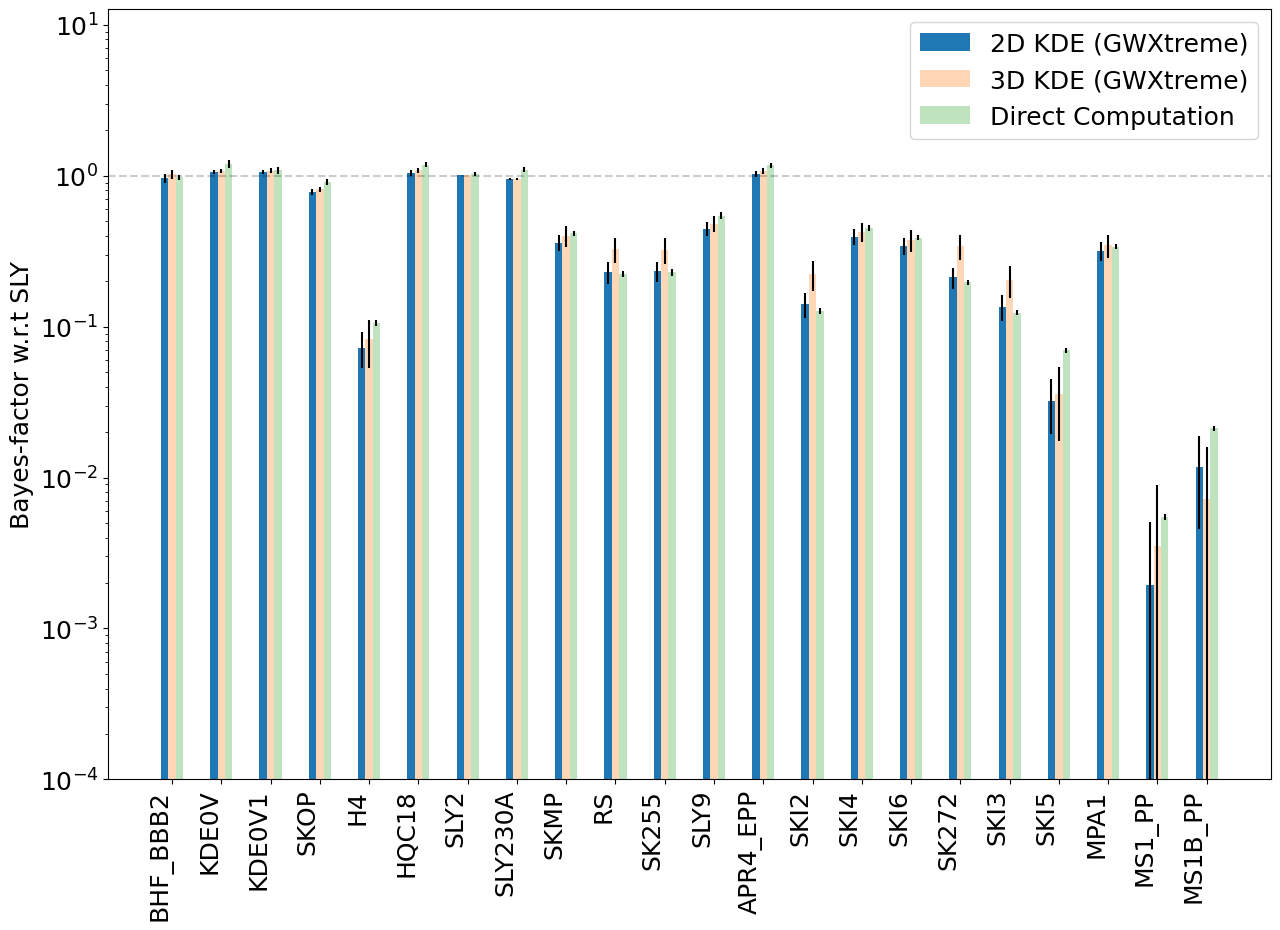
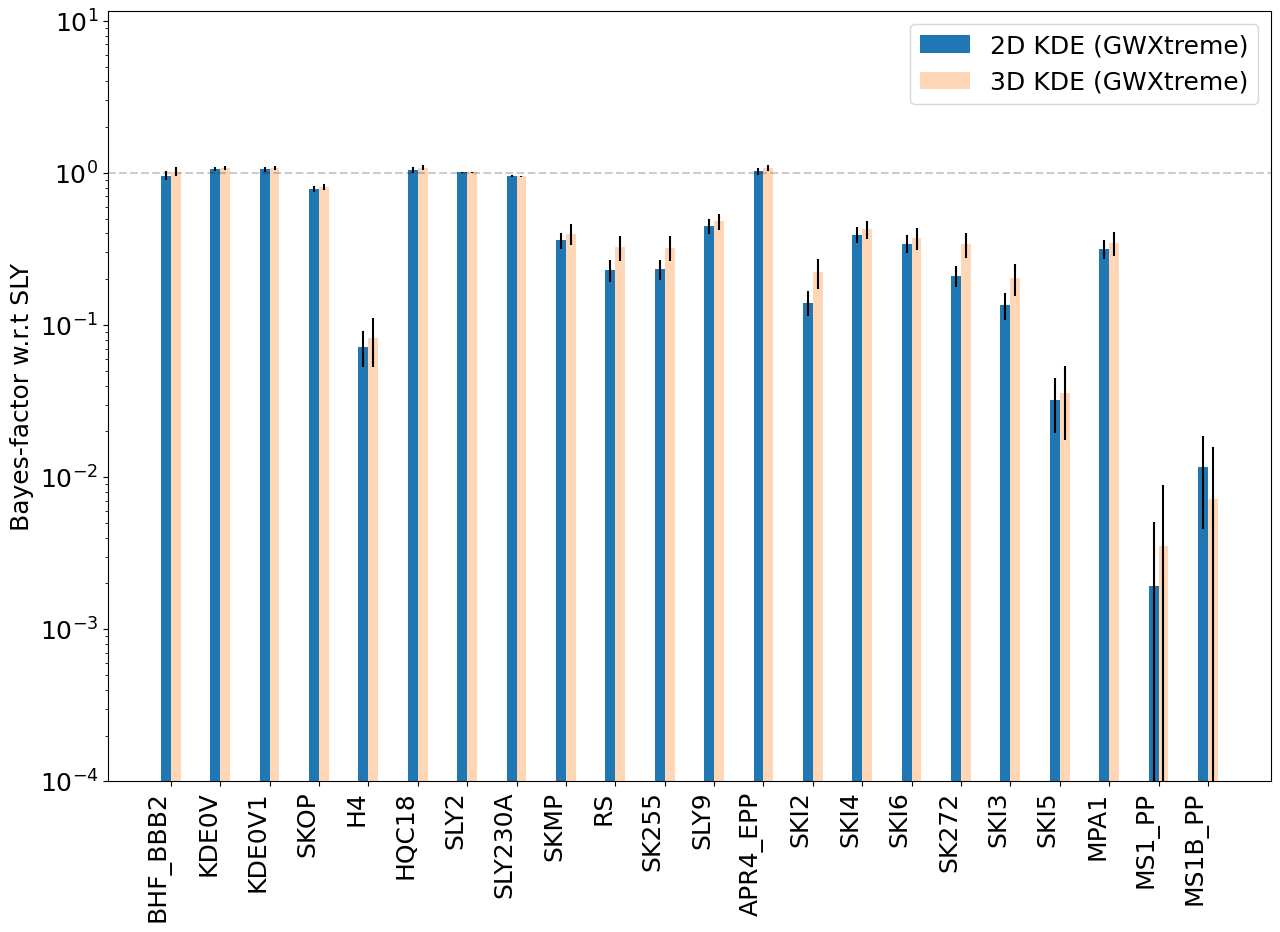
Removed LALSuite result from plot as it loked cluttery.

diff --git a/year3/PhenomTaylorCompare/GW170817BFs_GWXtreme2024Paper.py b/year3/PhenomTaylorCompare/GW170817BFs_GWXtreme2024Paper.py
@@ -52,11 +52,13 @@ def singleEventPlots():
         data = json.load(f)
 
 
-    labels = ["2D KDE (GWXtreme)", "3D KDE (GWXtreme)", "Direct Computation"]
+#    labels = ["2D KDE (GWXtreme)", "3D KDE (GWXtreme)", "Direct Computation"]
+    labels = ["2D KDE (GWXtreme)", "3D KDE (GWXtreme)"]
     eosList = ["BHF_BBB2","KDE0V","KDE0V1","SKOP","H4","HQC18","SLY2","SLY230A","SKMP","RS","SK255","SLY9","APR4_EPP","SKI2","SKI4","SKI6","SK272","SKI3","SKI5","MPA1","MS1_PP","MS1B_PP"]
-    colors = ["#1f77b4", "#ffd7b6", "#bfe2bf"]
+#    colors = ["#1f77b4", "#ffd7b6", "#bfe2bf"]
+    colors = ["#1f77b4", "#ffd7b6"]
     x_axis = np.arange(len(eosList))
-    spacing = [-.15,0,.15]
+    spacing = [-.10,.10]
     plt.clf()
     plt.rcParams.update({"font.size":18})
     plt.figure(figsize=(15, 10))
@@ -81,7 +83,7 @@ def singleEventPlots():
         # other methods have the raw trials saved.
         uncert = np.std(trials) * 2
 
-        plt.bar(x_axis+spacing[counter],BFs,.15,label=labels[counter],color=colors[counter])
+        plt.bar(x_axis+spacing[counter],BFs,.20,label=labels[counter],color=colors[counter])
         plt.errorbar(x_axis+spacing[counter],BFs,yerr=uncerts,ls="none",ecolor="black")
         counter += 1
     
